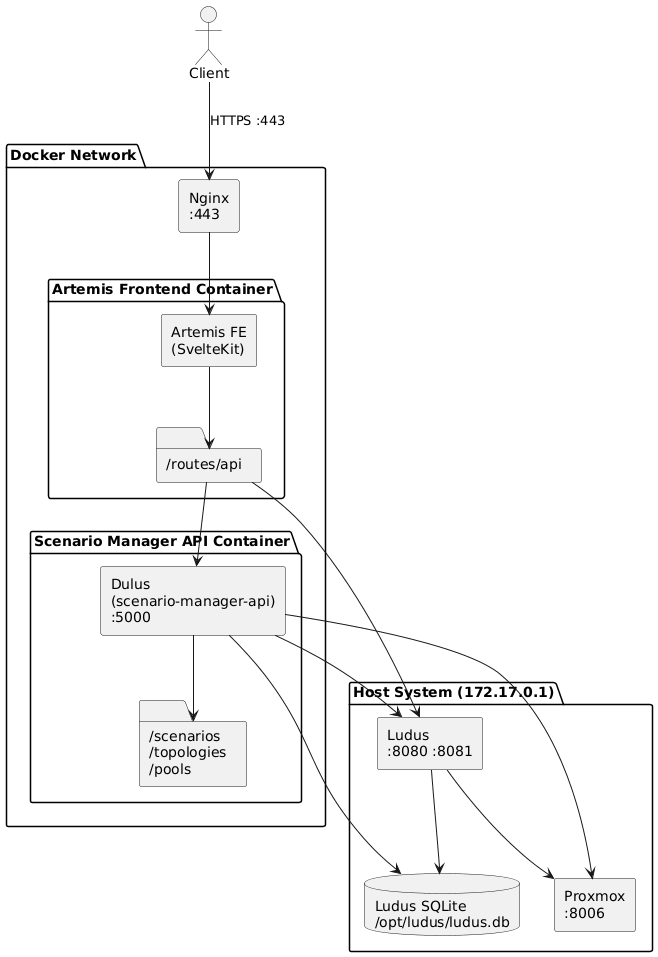
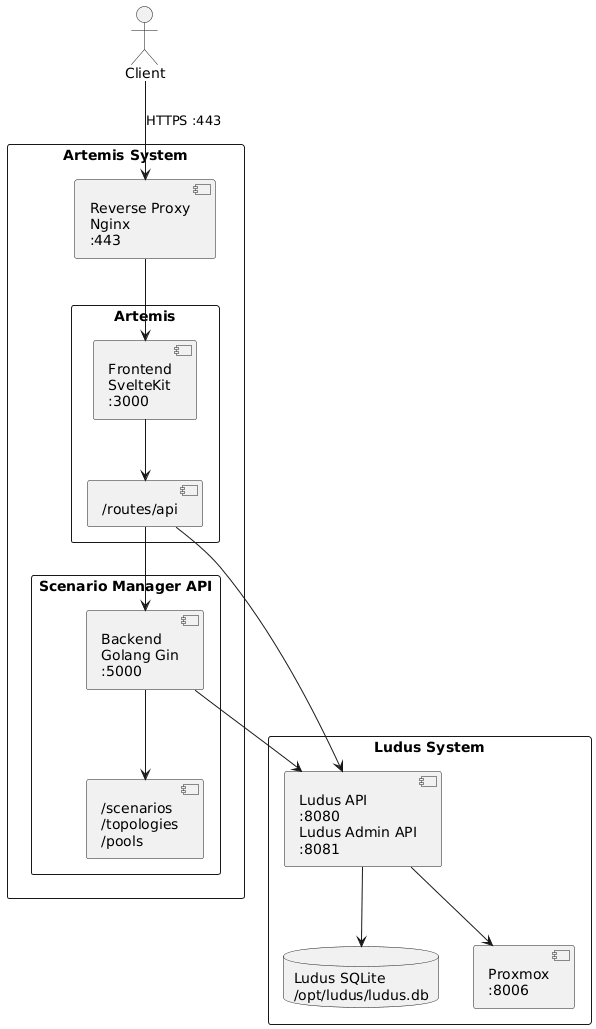
docs architecure

diff --git a/docs/components.md b/docs/components.md
@@ -3,9 +3,9 @@
 ![](./img/architecture.png)
 
 ### Client Layer
-Users interact with the system through a web browser, accessing the application via HTTPS on port 443.
+Users interact with the system through a web browser, accessing the application via HTTPS.
 
-### Docker Network
+### Artemis System
 
 **Nginx (:443)**
 - Acts as a reverse proxy and SSL/TLS termination point
@@ -18,13 +18,13 @@ Users interact with the system through a web browser, accessing the application 
   - Buffer overflow protection
   - HTTP to HTTPS redirect
 
-**Artemis Frontend Container**
+**Artemis Frontend**
 - SvelteKit-based web application providing the user interface
 - Contains `/routes/api` endpoints for backend communication
 - Communicates with both Dulus (internally) and Ludus/Proxmox (externally)
 - Handles authentication via JWT tokens
 
-**Scenario Manager API Container (Dulus)**
+**Scenario Manager API (Dulus)**
 - Golang Gin based API service running on port 5000
 - Manages proxmox statistics as well as scenarios, topologies, and pool configurations
 - Stores data in `/scenarios`, `/topologies`, and `/pools` directories

diff --git a/README.md b/README.md
@@ -1,11 +1,9 @@
 # Artemis Frontend Overview
 
+The Artemis system consists of multiple interconnected components. The architecture is designed to provide a web-based interface for managing Ludus cybersecurity training ranges through an intuitive frontend application. Read more about its' components here - [Artemis Components Explained](./docs/components.md). 
+
 
 ![](./docs/img/2_dashboard.png)
-
-## System Architecture
-
-The Artemis system consists of multiple interconnected components. The architecture is designed to provide a web-based interface for managing Ludus cybersecurity training ranges through an intuitive frontend application. Read more about its' components here - [Artemis Components Explained](./docs/components.md). 
 
 ## Developing
 
@@ -16,9 +14,13 @@ npm run dev
 
 ## Test Deployment
 
+To change variables in `.env` use:
+
 ```bash
-# change variables in .env
 openssl rand -hex 32
+```
+
+```bash
 npm install
 npm run build
 npm start
